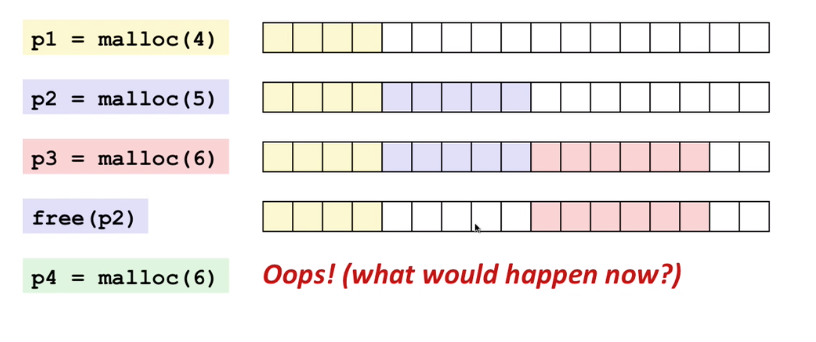
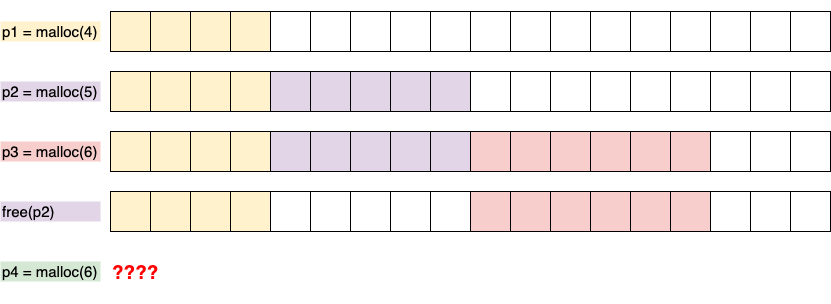
update 16-internals-memory-v2

diff --git a/webinars/16-internals-memory-v2/README.md b/webinars/16-internals-memory-v2/README.md
@@ -61,6 +61,22 @@ background-image: url(img/message.svg)
 # Зачем?
 
 - ### Не нужно, чтобы писать хорошие программы на Go.
+- ### .<br>.
+- ### .
+
+---
+
+# Зачем?
+
+- ### Не нужно, чтобы писать хорошие программы на Go.
+- ### Нужно, когда есть проблемы с производительностью из-за памяти.<br>(и есть пруфы!)
+- ### .
+
+---
+
+# Зачем?
+
+- ### Не нужно, чтобы писать хорошие программы на Go.
 - ### Нужно, когда есть проблемы с производительностью из-за памяти.<br>(и есть пруфы!)
 - ### Важно знать поведение, а не то, как все устроено.
 
@@ -334,13 +350,9 @@ type Reader interface {
 
 ---
 
-# Выделение памяти: основные понятия
+# Выделение памяти: фрагментация (спаны)
 
-* ### Arena - большой кусок памяти (64 МБ)
-* ### Page - кусочек Арены (8 KБ)
-* ### Span - несколько страничек подряд
-
-![](img/arenas.png)
+![](img/fragmentation_span.png)
 
 ---
 
@@ -358,14 +370,24 @@ type Reader interface {
 //     2         16        8192      512           0     43.75%
 //     3         32        8192      256           0     46.88%
 ...
-//    33       1280        8192        6         512     15.55%
-//    34       1408       16384       11         896     14.00%
-//    35       1536        8192        5         512     14.00s
+//    33       1152        8192        7         128     12.41%
+//    34       1280        8192        6         512     15.55%
+//    35       1408       16384       11         896     14.00%
 ...
-//    64      27264       81920        3         128     10.00%
-//    65      28672       57344        2           0      4.91%
-//    66      32768       32768        1           0     12.50%
+//    65      27264       81920        3         128     10.00%
+//    66      28672       57344        2           0      4.91%
+//    67      32768       32768        1           0     12.50%
 ```
+
+---
+
+# Выделение памяти: основные понятия
+
+* ### Arena - большой кусок памяти (64 МБ)
+* ### Page - кусочек Арены (8 KБ)
+* ### Span - несколько страничек подряд
+
+![](img/arenas.png)
 
 ---
 
@@ -382,6 +404,8 @@ type Reader interface {
 .main-image[
   ![](img/alloc_algo.png)
 ]
+
+https://golang.org/src/runtime/malloc.go#L905
 
 ---
 
@@ -525,6 +549,7 @@ type Reader interface {
 # Простое правило
 
 # Уменьшайте количество<br>мусора.
+Чисто не там где убирают, а там, где не мусорят.
 
 ---
 
@@ -552,7 +577,35 @@ type Reader interface {
 
 ---
 
-# Опрос
+# Результаты второго модуля "Concurrency в Go"
+
+.left-text[
+Пройдите, пожалуйста, тест по второму модулю.
+<br><br>
+Он поможет вспомнить, что мы уже прошли, и покажет, какие области запомнились лучше, а какие хуже.
+<br><br>
+Ссылка в чате
+]
+
+.right-image[
+![](img/gopher_science.png)
+]
+
+---
+
+# Следующее занятие
+
+## Работа с вводом/выводом в Go
+
+<br>
+<br>
+<br>
+
+## 4 мая, вторник (через полторы недели!)
+
+---
+
+  # Опрос
 
 .left-text[
 Заполните пожалуйста опрос
@@ -565,6 +618,7 @@ type Reader interface {
 ]
 
 ---
+
 # Дополнительные материалы
 
 Проще
